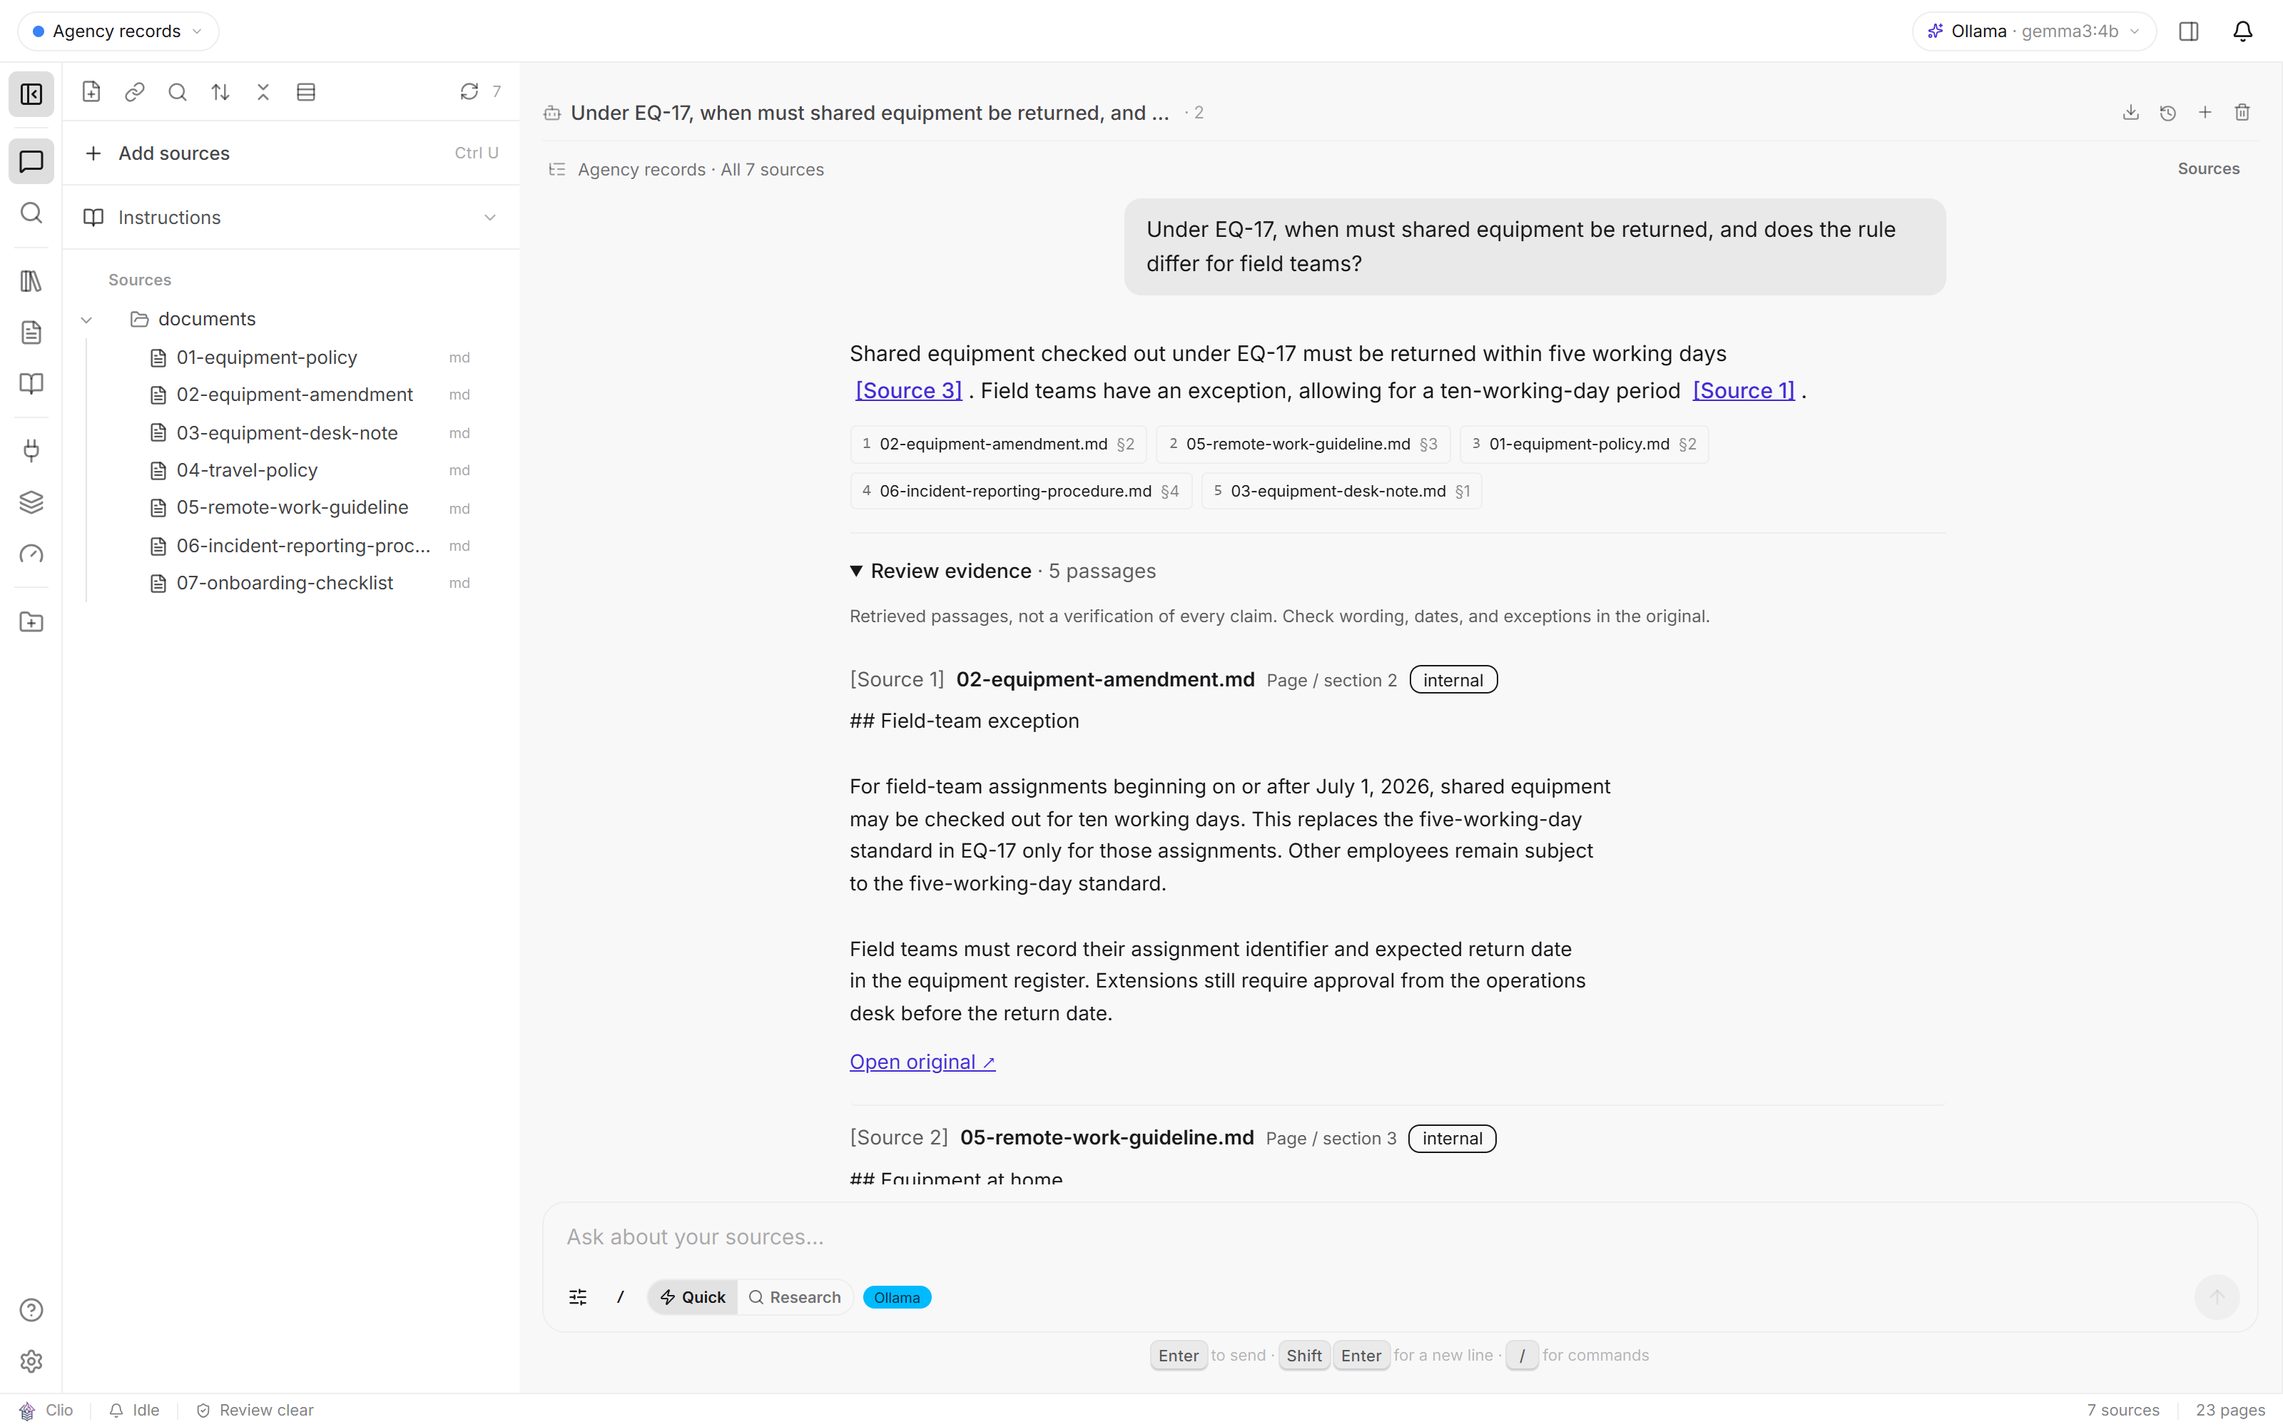
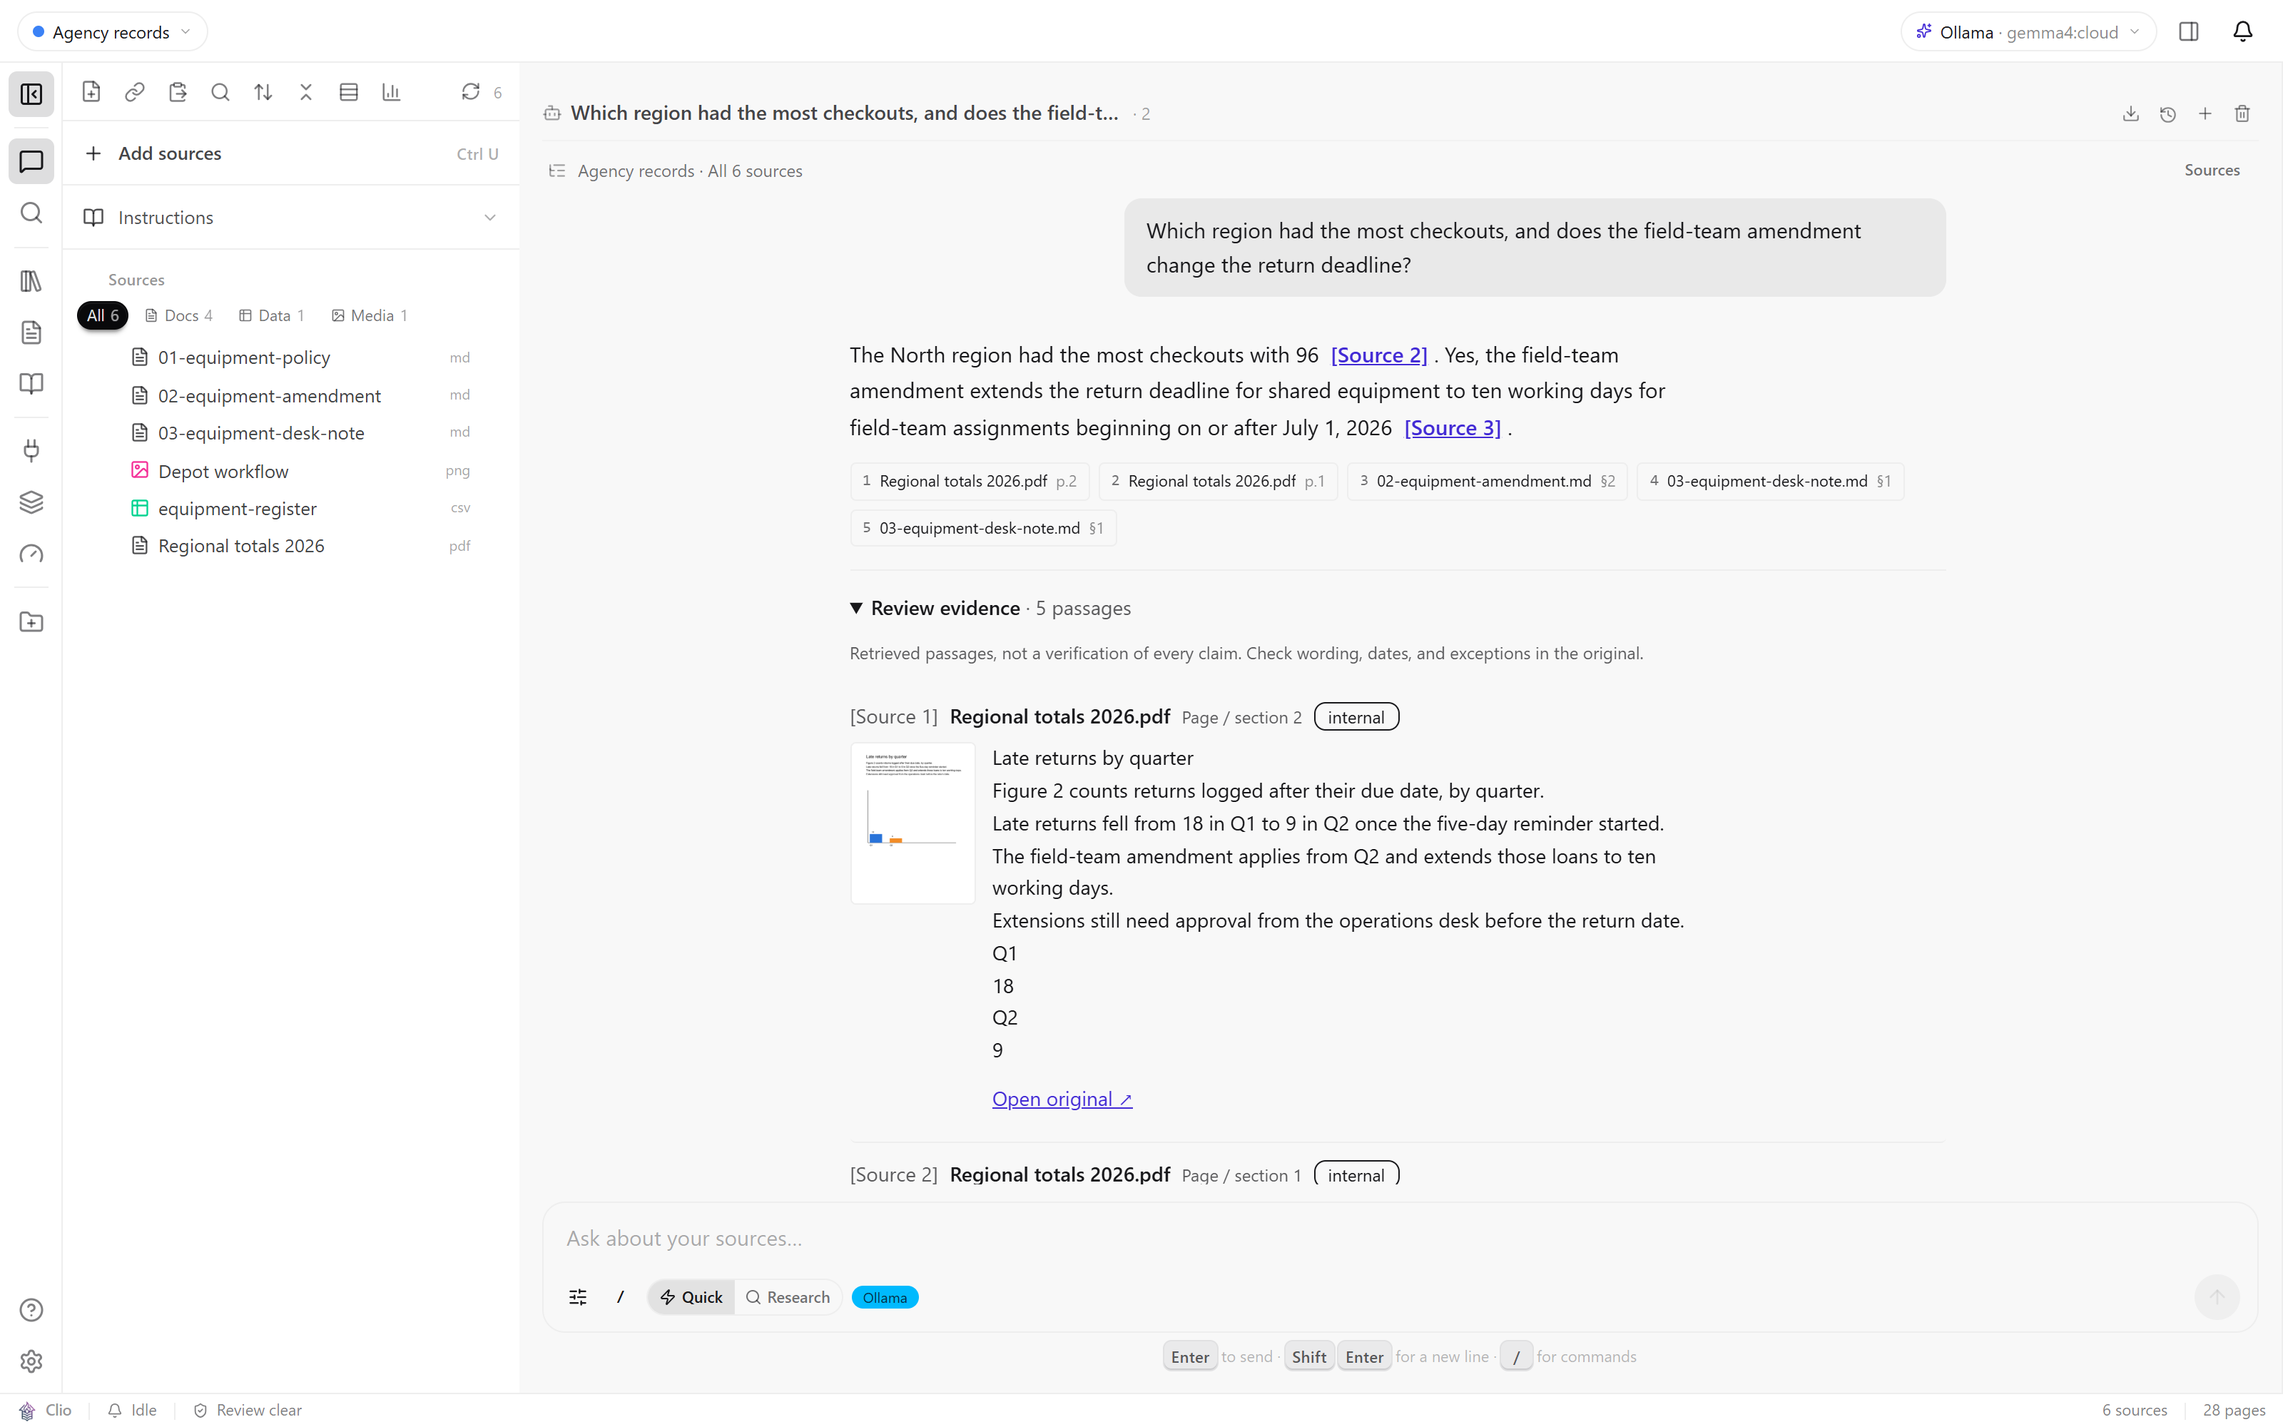
Add README screenshots in light and dark, with the script that takes them
Six screens (Ask with cited answer and page thumbnails, Find, Connect,
Collections, Reports, AI providers), each in a light and a dark version so
GitHub shows the one that matches the reader's theme, plus a 1280x640
social preview crop. The README gets the Ask screen under the intro and a
short "A look around" section.

scripts/screenshots.py captures the set with Playwright against a running
Clio and writes the two extra sample sources the shots use.

diff --git a/scripts/screenshots.py b/scripts/screenshots.py
@@ -1,0 +1,236 @@
+"""Capture the README screenshots from a running Clio.
+
+Drives the installed Edge (or Chrome) headlessly through Playwright at
+1600x1000, 2x, in the light and dark themes, and writes the PNGs the README
+embeds. Nothing here touches the server beyond ordinary API calls.
+
+Setup, once:
+
+    pip install playwright            # the browser channel below needs no download
+
+Then, against a Clio that has a collection to show (the welcome screen's
+sample set is what the README uses, plus the two files ``--make-sources``
+writes: a two-page PDF with a bar chart on each page and a PNG diagram, so
+the page thumbnails have something to draw):
+
+    python scripts/screenshots.py --make-sources ./shot-sources
+    # add those two files and the sample set to a collection, then:
+    python scripts/screenshots.py --base http://localhost:8473 --collection <id> --out docs/screenshots
+
+The Ask shot needs a model: ``--model`` names an Ollama model reachable from
+the server (the provider is preset in the browser's local storage, nothing is
+saved on the server). ``--only ask,find`` limits the run; ``--theme light``
+skips the dark set.
+"""
+
+from __future__ import annotations
+
+import argparse
+import json
+import sys
+from pathlib import Path
+
+QUESTION = "Which region had the most checkouts, and does the field-team amendment change the return deadline?"
+FIND = "checkouts by region and the depot workflow"
+
+
+# ── the two extra sources ─────────────────────────────────────────────
+
+
+def _page_stream(title: str, lines: list[str], bars=None) -> bytes:
+    parts = [f"BT /F1 20 Tf 72 720 Td ({title}) Tj ET"]
+    y = 690
+    for line in lines:
+        parts.append(f"BT /F1 12 Tf 72 {y} Td ({line}) Tj ET")
+        y -= 18
+    if bars:
+        x = 90
+        parts.append("0.2 0.2 0.2 RG 1 w 80 300 m 80 560 l S 80 300 m 520 300 l S")
+        colours = ["0.16 0.45 0.85", "0.95 0.55 0.15", "0.25 0.70 0.35", "0.75 0.25 0.55"]
+        for i, (label, value) in enumerate(bars):
+            h = value * 2.4
+            parts.append(f"{colours[i % 4]} rg {x} 300 60 {h} re f")
+            parts.append(f"0 g BT /F1 10 Tf {x} 285 Td ({label}) Tj ET")
+            parts.append(f"BT /F1 10 Tf {x + 10} {300 + h + 6} Td ({value}) Tj ET")
+            x += 100
+    return "\n".join(parts).encode("latin-1")
+
+
+def make_sources(out: Path) -> None:
+    """A hand-written PDF (real text, drawn charts) and a PNG diagram."""
+    out.mkdir(parents=True, exist_ok=True)
+    pages = [
+        _page_stream("Regional totals 2026", [
+            "Figure 1 compares equipment checkouts by region for the first half of 2026.",
+            "North leads with 96 checkouts; West trails at 41 after the depot closure in March.",
+            "Each bar counts checkouts recorded in the register, late returns included.",
+        ], bars=[("North", 96), ("East", 72), ("South", 58), ("West", 41)]),
+        _page_stream("Late returns by quarter", [
+            "Figure 2 counts returns logged after their due date, by quarter.",
+            "Late returns fell from 18 in Q1 to 9 in Q2 once the five-day reminder started.",
+            "The field-team amendment applies from Q2 and extends those loans to ten working days.",
+            "Extensions still need approval from the operations desk before the return date.",
+        ], bars=[("Q1", 18), ("Q2", 9)]),
+    ]
+    objs = [b"<< /Type /Catalog /Pages 2 0 R >>"]
+    kids = " ".join(f"{3 + i * 2} 0 R" for i in range(len(pages)))
+    objs.append(f"<< /Type /Pages /Kids [{kids}] /Count {len(pages)} >>".encode())
+    font_num = 3 + len(pages) * 2
+    for i, stream in enumerate(pages):
+        objs.append(f"<< /Type /Page /Parent 2 0 R /MediaBox [0 0 612 792] /Contents {4 + i * 2} 0 R "
+                    f"/Resources << /Font << /F1 {font_num} 0 R >> >> >>".encode())
+        objs.append(b"<< /Length " + str(len(stream)).encode() + b" >>\nstream\n" + stream + b"\nendstream")
+    objs.append(b"<< /Type /Font /Subtype /Type1 /BaseFont /Helvetica >>")
+    pdf = bytearray(b"%PDF-1.4\n")
+    offsets = []
+    for n, body in enumerate(objs, start=1):
+        offsets.append(len(pdf))
+        pdf += f"{n} 0 obj\n".encode() + body + b"\nendobj\n"
+    xref = len(pdf)
+    pdf += f"xref\n0 {len(objs) + 1}\n0000000000 65535 f \n".encode()
+    for off in offsets:
+        pdf += f"{off:010d} 00000 n \n".encode()
+    pdf += f"trailer\n<< /Size {len(objs) + 1} /Root 1 0 R >>\nstartxref\n{xref}\n%%EOF\n".encode()
+    (out / "Regional totals 2026.pdf").write_bytes(pdf)
+
+    from PIL import Image, ImageDraw
+    img = Image.new("RGB", (1000, 640), "white")
+    d = ImageDraw.Draw(img)
+    d.rectangle((40, 40, 960, 600), outline="#333", width=4)
+    d.text((70, 70), "Depot workflow: checkout, use, return", fill="#111")
+    x = 90
+    for label, colour in [("Checkout desk", "#2a74d9"), ("Field team", "#f28c28"), ("Return bin", "#3fa34d")]:
+        d.rounded_rectangle((x, 250, x + 220, 380), radius=18, fill=colour)
+        d.text((x + 30, 305), label, fill="white")
+        if x + 300 < 960:
+            d.line((x + 220, 315, x + 300, 315), fill="#333", width=5)
+            d.polygon([(x + 300, 315), (x + 280, 303), (x + 280, 327)], fill="#333")
+        x += 300
+    img.save(out / "Depot workflow.png")
+    print("wrote", sorted(p.name for p in out.iterdir()))
+
+
+# ── capture ───────────────────────────────────────────────────────────
+
+
+def _preset(theme: str, tab: str, collection: str, model: str) -> str:
+    state = {
+        "theme": theme,
+        "onboarding_dismissed": "true",
+        "active_tab": tab,
+        "clio_current_collection": collection,
+        "clio_storage_migrated": "true",
+        "sources_sidebar_open": "true",
+        "ai_providers_config": json.dumps([{"id": "ollama", "model": model,
+                                            "baseUrl": "http://localhost:11434", "available": True}]),
+        "ai_settings": json.dumps({"provider": "ollama", "rerank": False, "synthesize": False}),
+    }
+    return "".join(f"localStorage.setItem({json.dumps(k)}, {json.dumps(v)});" for k, v in state.items())
+
+
+def capture(base: str, collection: str, out: Path, themes: list[str], only: set[str] | None,
+            model: str, channel: str) -> int:
+    from playwright.sync_api import sync_playwright
+
+    out.mkdir(parents=True, exist_ok=True)
+    failures = 0
+
+    def shoot(page, name, theme):
+        page.wait_for_timeout(600)
+        path = out / f"{name}{'' if theme == 'light' else '-dark'}.png"
+        page.screenshot(path=str(path))
+        print("wrote", path)
+
+    def open_tab(context, theme, tab):
+        page = context.new_page()
+        page.add_init_script(_preset(theme, tab, collection, model))
+        page.goto(f"{base}/?tab={tab}", wait_until="load")
+        page.wait_for_timeout(2000)
+        return page
+
+    def ask(context, theme):
+        page = open_tab(context, theme, "chat")
+        box = page.get_by_placeholder("Ask about your sources")
+        box.click()
+        box.fill(QUESTION)
+        box.press("Enter")
+        page.wait_for_selector("div[role=list][aria-label=Sources]", timeout=300_000)
+        page.get_by_text("Review evidence").first.click()
+        page.wait_for_selector("li img", timeout=20_000)
+        page.wait_for_timeout(1200)
+        shoot(page, "01-ask-cited-answer", theme)
+        page.close()
+
+    def find(context, theme):
+        page = open_tab(context, theme, "search")
+        box = page.get_by_placeholder("Ask a question or find a passage")
+        box.click()
+        box.fill(FIND)
+        box.press("Enter")
+        page.wait_for_selector("article", timeout=60_000)
+        page.wait_for_timeout(2500)
+        shoot(page, "02-find-results", theme)
+        page.close()
+
+    def settings(context, theme):
+        page = open_tab(context, theme, "settings")
+        page.get_by_text("AI Providers", exact=True).first.click()
+        page.wait_for_timeout(1500)
+        shoot(page, "06-settings-providers", theme)
+        page.close()
+
+    def simple(name, tab):
+        def run(context, theme):
+            page = open_tab(context, theme, tab)
+            page.wait_for_timeout(1500)
+            shoot(page, name, theme)
+            page.close()
+        return run
+
+    shots = {
+        "ask": ask,
+        "find": find,
+        "connect": simple("03-connect-agents", "mcp"),
+        "collections": simple("04-collections", "collections"),
+        "reports": simple("05-reports", "generate"),
+        "settings": settings,
+    }
+    with sync_playwright() as p:
+        browser = p.chromium.launch(channel=channel, headless=True)
+        for theme in themes:
+            context = browser.new_context(viewport={"width": 1600, "height": 1000},
+                                          device_scale_factor=2, color_scheme=theme)
+            for key, fn in shots.items():
+                if only and key not in only:
+                    continue
+                try:
+                    fn(context, theme)
+                except Exception as e:  # report and carry on with the rest
+                    failures += 1
+                    print(f"FAILED {key} ({theme}): {e}", file=sys.stderr)
+            context.close()
+        browser.close()
+    return failures
+
+
+def main() -> int:
+    ap = argparse.ArgumentParser(description=__doc__, formatter_class=argparse.RawDescriptionHelpFormatter)
+    ap.add_argument("--make-sources", metavar="DIR", help="write the two extra sample sources and exit")
+    ap.add_argument("--base", default="http://localhost:8473")
+    ap.add_argument("--collection", default="default")
+    ap.add_argument("--out", default="docs/screenshots")
+    ap.add_argument("--theme", choices=["light", "dark", "both"], default="both")
+    ap.add_argument("--only", help="comma-separated: ask,find,connect,collections,reports,settings")
+    ap.add_argument("--model", default="gemma3:4b", help="Ollama model for the Ask shot")
+    ap.add_argument("--channel", default="msedge", help="Playwright browser channel (msedge, chrome)")
+    a = ap.parse_args()
+    if a.make_sources:
+        make_sources(Path(a.make_sources))
+        return 0
+    themes = ["light", "dark"] if a.theme == "both" else [a.theme]
+    only = set(a.only.split(",")) if a.only else None
+    return 1 if capture(a.base, a.collection, Path(a.out), themes, only, a.model, a.channel) else 0
+
+
+if __name__ == "__main__":
+    raise SystemExit(main())

diff --git a/README.md b/README.md
@@ -15,6 +15,11 @@ whatever model you trust, hosted or on your own hardware. Nothing in the
 product depends on a cloud service, there are no accounts to create, and the
 default install needs no configuration at all.
 
+<picture>
+  <source media="(prefers-color-scheme: dark)" srcset="docs/screenshots/01-ask-cited-answer-dark.png">
+  <img src="docs/screenshots/01-ask-cited-answer.png" alt="Clio's Ask tab: a question about equipment checkouts answered with [Source N] citations, a strip of source chips, and the Review evidence panel showing each cited passage beside a thumbnail of the page it came from." width="100%">
+</picture>
+
 Clio is named for the Muse of history: daughter of Zeus and of Mnemosyne,
 memory itself, who kept the record on Mount Helicon with her eight sisters.
 Her symbols are an open scroll, a chest of books, tablets and a stylus, and
@@ -36,6 +41,7 @@ be forgotten. That is the job here too. The record remembers.
 - [If others can reach it](#if-others-can-reach-it)
 - [Where people run it](#where-people-run-it)
 - [What people do with it](#what-people-do-with-it)
+- [A look around](#a-look-around)
 - [More ways to deploy](#more-ways-to-deploy)
 - [Configuration](#configuration)
 - [API](#api)
@@ -334,6 +340,49 @@ live in the data directory on your machine; local embeddings, keyword search
 and reranking never leave it. External AI is optional: a hosted model you
 configure receives only the passages it is asked about, and `OFFLINE_MODE=1`
 disables cloud providers and model downloads entirely.
+
+## A look around
+
+The pictures follow your system theme; every one has a light and a dark
+version in [docs/screenshots](docs/screenshots). The sources are the
+fictional sample set from the welcome screen plus a two-page PDF and a
+diagram, indexed on a laptop with a local Ollama model.
+
+**Find** returns the passages that match, without a model. A PDF page or an
+image file shows a thumbnail of the page the passage came from.
+
+<picture>
+  <source media="(prefers-color-scheme: dark)" srcset="docs/screenshots/02-find-results-dark.png">
+  <img src="docs/screenshots/02-find-results.png" alt="The Find tab: a query with its matched words highlighted in each passage, and page thumbnails beside a PDF result and a PNG result." width="100%">
+</picture>
+
+**Connect** hands the same collections to Claude Code, Codex, Cursor and any
+other MCP client: a personal token per device, and the exact settings each
+client wants.
+
+<picture>
+  <source media="(prefers-color-scheme: dark)" srcset="docs/screenshots/03-connect-agents-dark.png">
+  <img src="docs/screenshots/03-connect-agents.png" alt="The Connect tab: the MCP server toggle, the personal access token form with its write and collection-scope options, and the connection details for a client." width="100%">
+</picture>
+
+<table>
+  <tr>
+    <td width="50%">
+      <picture>
+        <source media="(prefers-color-scheme: dark)" srcset="docs/screenshots/05-reports-dark.png">
+        <img src="docs/screenshots/05-reports.png" alt="The Reports tab: six report types (executive summary, FAQ, timeline, briefing doc, study guide, podcast script) with optional focus and instructions.">
+      </picture>
+      <p align="center"><b>Reports</b> turn a collection into a cited document.</p>
+    </td>
+    <td width="50%">
+      <picture>
+        <source media="(prefers-color-scheme: dark)" srcset="docs/screenshots/06-settings-providers-dark.png">
+        <img src="docs/screenshots/06-settings-providers.png" alt="Settings, AI Providers: Anthropic, OpenAI, Grok, Google Gemini, GitHub Models, OpenRouter, a connected local Ollama, Ollama Cloud, and an option to add your own endpoint.">
+      </picture>
+      <p align="center"><b>AI providers</b>: a cloud key, a local model, or your own endpoint.</p>
+    </td>
+  </tr>
+</table>
 
 ## More ways to deploy
 
